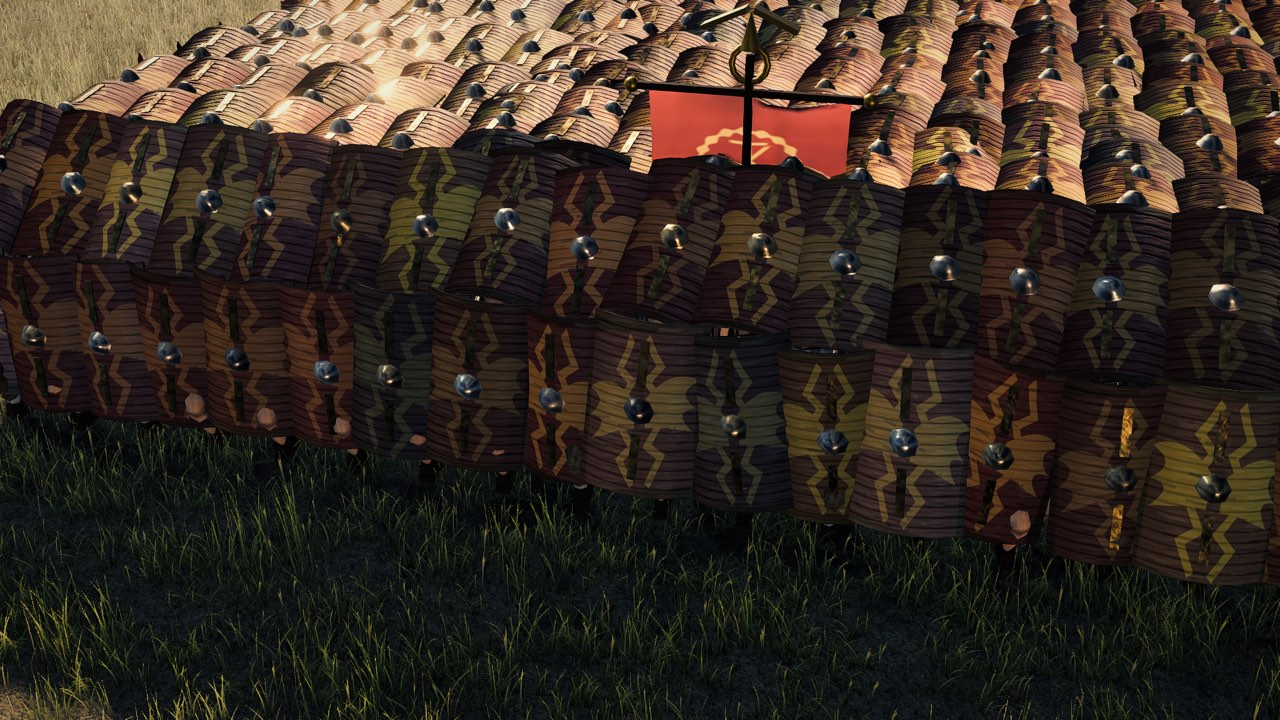
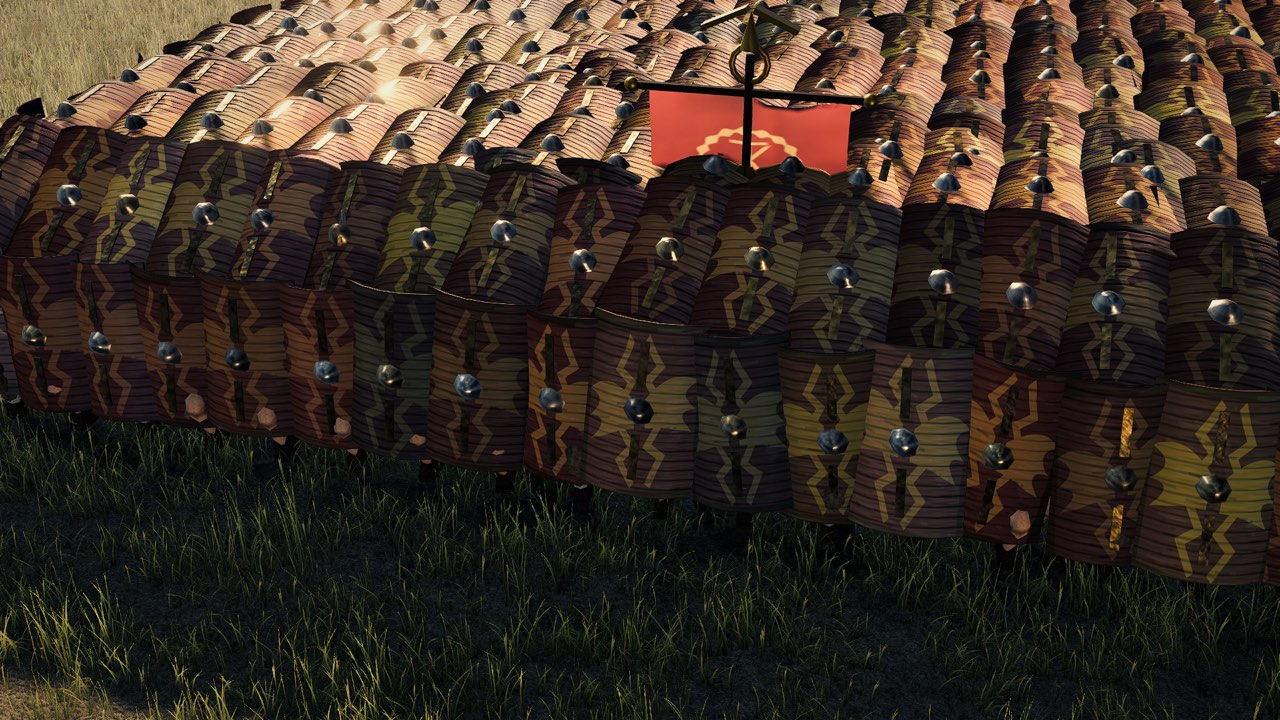
fix(testudo): the marching camera was photographing a halted block
`UnitOrder` is a numeric enum — `Hold = 0`, `MoveTo = 1` — and `probe-testudo.mjs`
wrote the strings 'hold' and 'move'. Nothing threw, because `steerSoldiers` only
compares `order` against `UnitOrder.Rout`; the men still dressed on their slots and
the probe looked like it worked. But the unit *anchor* only advances on `MoveTo` or
`AttackMove`, so for two whole passes the marching frame was a halted formation, and a
critic correctly scored the animation 1 out of 4 for 'flank-march and flank-halt are
the same legs'. They were the same legs.

Two poses moved with it, both from the same critique.

**The glacis was standing proud of its own roof.** At 46 degrees it covered 1.19-1.92 m
and the roof tops out at 1.85, so the second rank's top edge stood up to 0.26 m above
the shell all the way across the front — and from any camera behind the formation that
is a row of unlit hide backs, measured at luminance 33-40 against the roof's 94-103.
Laid back to 52 degrees and dropped 0.10 m it now tops out level with the roof's own
trailing edge.

**The flank board is a solved three-way trade and the number is now written down.** One
1.06 m board cannot cover a 1.75 m man, so wherever it goes something is out. At
0.72-1.77 m it left 0.72 m of bare leg and the first critic called that the single
highest-leverage fault in the build; at 0.42-1.47 m it left the man's own helmet, face
and both forearms above the rim and the second critic counted twenty-six of them in one
[…]

diff --git a/src/anim/authored.ts b/src/anim/authored.ts
@@ -452,10 +452,10 @@ const idleBraceLow: OverlayDef = {
  * | pose | board covers | closes |
  * |---|---|---|
  * | `testudoFace` | 0.30–1.35 m, upright | the front rank's own frontage, down to the ankles |
- * | `testudoNose` | 1.19–1.92 m, 46° back-slope reaching 0.75 m forward | the band across the front at head height — the gap that makes a testudo look like a crowd wearing hats |
+ * | `testudoNose` | 1.16–1.81 m, 52° back-slope reaching 0.85 m forward | the band across the front at head height — the gap that makes a testudo look like a crowd wearing hats |
  * | `testudoRoofA` | 1.66–1.81 m, 8° nose-down, 1.06 m of board over a 0.63 m interval | the roof, course one |
  * | `testudoRoofB` | 1.63–1.85 m, 12° nose-down | the roof, course two: alternate ranks take it, so the boards lap rather than butt and the surface has a grain |
- * | `testudoFlank` | 0.42–1.47 m, upright | the flanks and the rear, with the man turned outward by the renderer |
+ * | `testudoFlank` | 0.55–1.60 m, upright, rim 0.05 m over the man's own helmet | the flanks and the rear, with the man turned outward by the renderer |
  *
  * Each roof board laps the one in front by 0.43 m, which is what leaves no hole when a man
  * is 0.1 m out of his place. The face's top at 1.35 m sits above the nose's bottom at
@@ -558,12 +558,22 @@ const ARMS_FACE: BoneTrack[] = [
   absTr(MB.lowerArmR, [[0, -51.9, -49.8, 151.4]]),
 ];
 
-/** Second rank: the glacis, 46° back from vertical, covering 1.19–1.92 m. */
+/**
+ * Second rank: the glacis, 52° back from vertical, covering 1.16-1.81 m.
+ *
+ * It was 46° and 1.19-1.92 m, and its top edge therefore stood up to 0.26 m **above** the
+ * roof line all the way across the front. Seen from any camera behind the formation that is
+ * a row of eight to ten hide backs, unlit, standing proud of the shell — a critic measured
+ * them at luminance 33-40 against the roof's 94-103 and called them "flat unlit near-black
+ * rectangles that shred the silhouette at every range". They were the *front* of the
+ * formation seen from behind. Laid back six more degrees and dropped 0.10 m, the glacis now
+ * tops out level with the roof's own trailing edge and there is nothing to see over.
+ */
 const ARMS_NOSE: BoneTrack[] = [
-  absTr(MB.upperArmL, [[0, 130.7, 88.7, 1.5]]),
-  absTr(MB.lowerArmL, [[0, 134, -51, -177]]),
-  absTr(MB.upperArmR, [[0, 126.5, -3.1, -35.8]]),
-  absTr(MB.lowerArmR, [[0, -73.8, -40.1, 166.6]]),
+  absTr(MB.upperArmL, [[0, 151.5, 88.7, 3.5]]),
+  absTr(MB.lowerArmL, [[0, 128, -51, -177]]),
+  absTr(MB.upperArmR, [[0, 91.4, 40.8, -1.4]]),
+  absTr(MB.lowerArmR, [[0, -74.5, -42.7, 167.2]]),
 ];
 
 /**
@@ -595,27 +605,33 @@ const ARMS_ROOF_B: BoneTrack[] = [
 ];
 
 /**
- * Flank and rear: the board upright and low, covering 0.42-1.47 m.
+ * Flank and rear: the board upright, covering 0.55-1.60 m. **This height is a solved
+ * three-way trade and it is worth understanding before moving it.**
  *
- * **It used to cover 0.72-1.77 m and that was the loudest fault in the whole feature.** The
- * argument for the high board was that its top edge stood on the roof line and sealed every
- * horizontal sightline; what it actually produced was 0.72 m of bare leg under the shield
- * along both flanks and the whole of the back, which a critic named as the single
- * highest-leverage fix and called out in five of nine frames. Dropping it 0.30 m puts the
- * rim into the grass, and it takes the *second* fault with it: at 1.47 m the far wall no
- * longer stands proud of the roof, so the dozen unlit hide backs that a tactical camera
- * used to see over the top of the shell — "black fins", and they shredded the silhouette at
- * every range — are hidden behind the roof they used to stick through.
+ * One 1.06 m board cannot cover a 1.75 m man, so wherever it is put, something is out. Two
+ * critics moved it in opposite directions and between them fixed the number:
  *
- * What is given up is a 0.19 m band between the rim and the roof's edge, seen only from
- * outside at about eye height. It shows the men's own helmets and the underside of the
- * roof, not sky.
+ *   - **0.72-1.77 m** — the first attempt, chosen so the rim stood on the roof line and
+ *     sealed every horizontal sightline. It put 0.72 m of bare leg along both flanks and
+ *     the whole of the back; a critic named it in five of nine frames and called it the
+ *     single highest-leverage fix in the build.
+ *   - **0.42-1.47 m** — the answer to that, and it made the *other* end worse: the hunched
+ *     man's head is at 1.55 m, so a rim at 1.47 leaves his helmet, face and both raised
+ *     forearms above it. The next critic counted twenty-six in one unbroken band across the
+ *     back and scored it as the same fault the legs were.
+ *   - **0.55-1.60 m**, here. The rim is 0.05 m *over* the head, so nothing of the man shows
+ *     above it, and the gap to the roof's own leading edge at 1.66 m is 0.06 m — closed for
+ *     any practical sightline. The leg band is 0.55 m of which the grass takes about 0.2 m.
+ *
+ * Dropping it also took the "black fins" with it: at 1.60 m the far wall no longer stands
+ * above the roof, so the unlit hide backs a tactical camera used to see over the top of the
+ * shell are hidden behind the roof they used to stick through.
  */
 const ARMS_FLANK: BoneTrack[] = [
-  absTr(MB.upperArmL, [[0, -146.8, 88.7, 8.4]]),
+  absTr(MB.upperArmL, [[0, -172.1, 88.7, 6.2]]),
   absTr(MB.lowerArmL, [[0, -174, -51, -177]]),
-  absTr(MB.upperArmR, [[0, 17.8, 35.7, 71.7]]),
-  absTr(MB.lowerArmR, [[0, -28.5, -40.9, 130.8]]),
+  absTr(MB.upperArmR, [[0, 22.1, 26.6, 67.2]]),
+  absTr(MB.lowerArmR, [[0, -52, -46.8, 150.8]]),
 ];
 
 /**

diff --git a/src/units/UnitRenderSystem.ts b/src/units/UnitRenderSystem.ts
@@ -221,7 +221,7 @@ const SLOT_STRAGGLE = 0.30;
  * a man's drawn position because a rank of men on a perfect grid reads as a spreadsheet.
  * A testudo is the one formation where that is precisely wrong: the scatter is what turns a
  * shield roof into a shield roof with holes in it. So a man in a testudo is drawn up to
- * 0.30 m *toward* his slot instead of up to 0.43 m away from it, which is a smaller
+ * 0.40 m *toward* his slot instead of up to 0.43 m away from it, which is a smaller
  * intervention than the one it replaces and in the direction the formation is asking for.
  *
  * `TESTUDO_EVEN` is the one that needs stating plainly. `pool.scale` and `heightMul`
@@ -234,7 +234,7 @@ const SLOT_STRAGGLE = 0.30;
  * enough that the plane reads. The men underneath are behind their own shields; the roof is
  * the only part of them anybody can see.
  */
-const TESTUDO_DRESS = 0.30;
+const TESTUDO_DRESS = 0.40;
 const TESTUDO_EVEN = 0.78;
 /** Seconds to form up or fall out. A ninety-degree turn on the flank happens over this. */
 const TESTUDO_FORM = 0.55;
